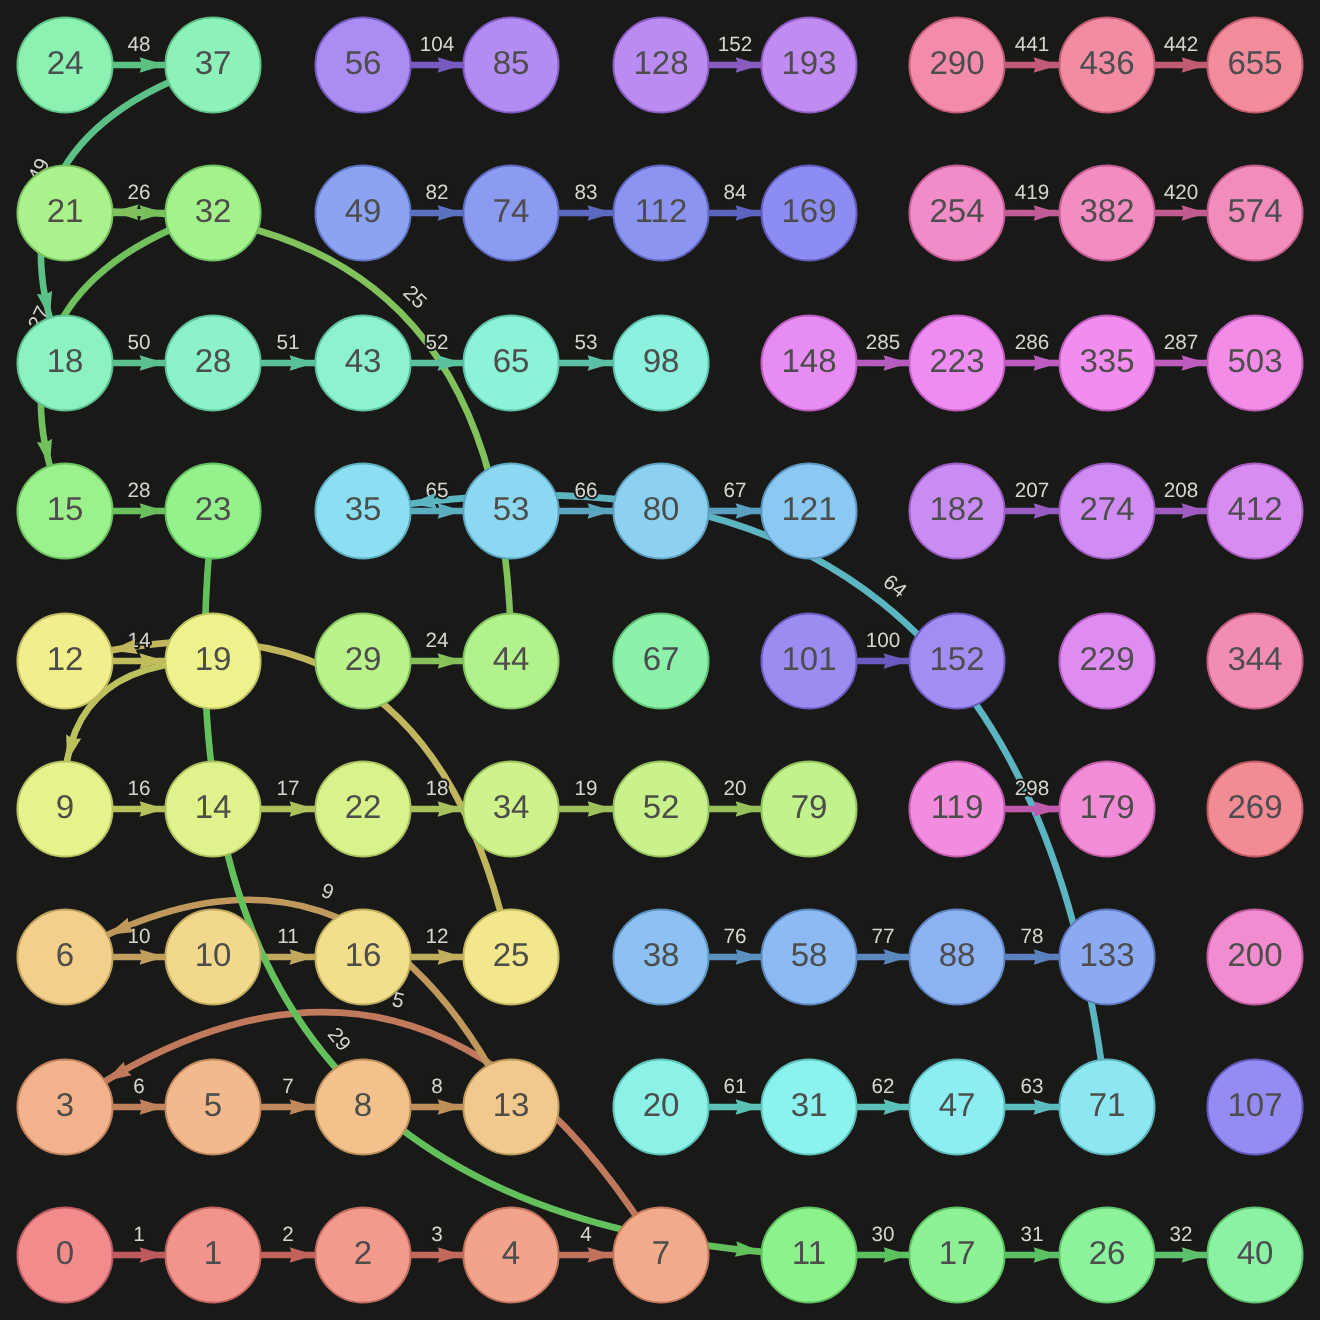
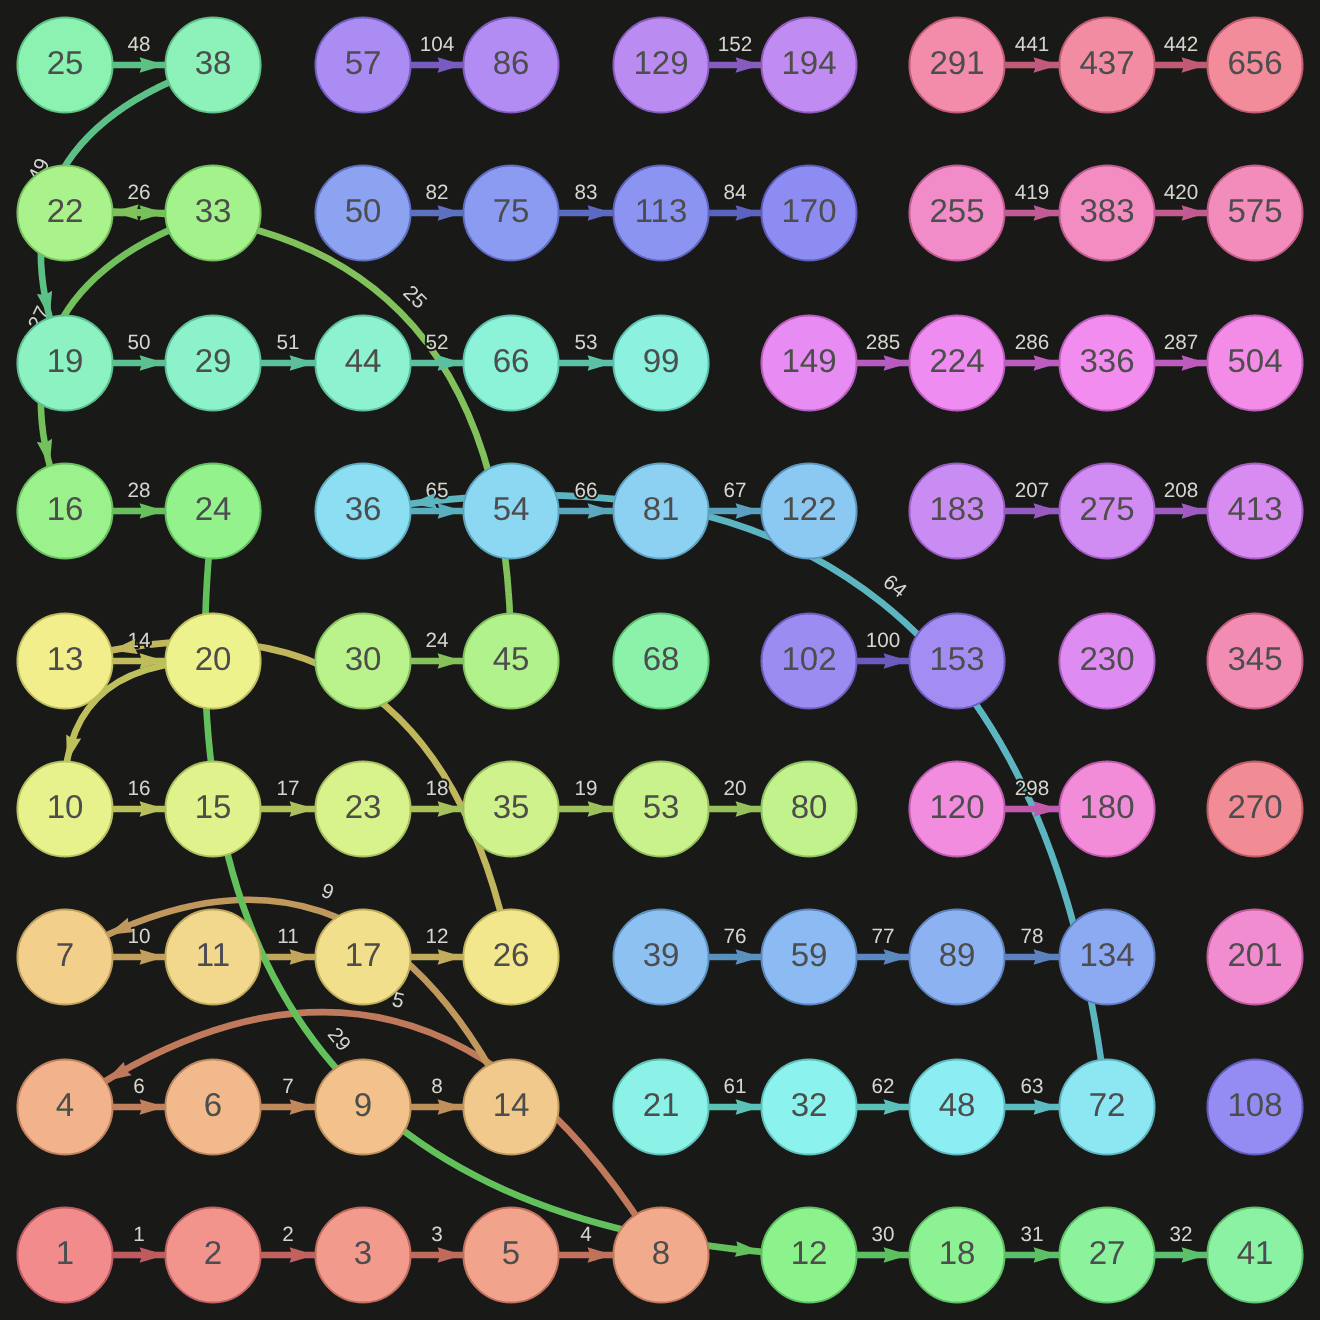
Rosary paper, beads counted from 1: Part II
- step 4b of docs/specs/0003-rosary-beads-counted-from-1.md
- the phase is log2 n mod 1, the cone of m is the beads whose binary
  expansion starts with that of m; Lemmas 4 and 5 lose their shifts
- Figures 8, 9 and 10 in the new numbering

diff --git a/research/jane-s-rosary/check_reluctant.py b/research/jane-s-rosary/check_reluctant.py
@@ -9,7 +9,8 @@ usage: python check_reluctant.py [--moves T]     (default 300000; about 5 s)
 Every line printed must end with "ok".
 
 Checked:
-- the first beads of the recitation, as quoted in the paper;
+- the first beads of the recitation and the examples of Part II, as quoted
+  in the paper;
 - Theorem 2 on the first T moves: Jane is never stuck, never tells a bead
   twice, and never leaves a gap in an up-chain (when a white bead w is
   told, w lambda has been told);
@@ -59,6 +60,16 @@ def main() -> int:
         )
     )
     results.append(report(f"Theorem 2: defined and injective on {moves} moves", True))
+    cone_of_4 = [n for n in range(1, 20) if 4 in down_chain(n)]
+    results.append(
+        report(
+            "examples: rho(5) = 4, rho(12) = 26, the cone of bead 4, the phase of 8",
+            beads[5] == 4
+            and beads[12] == 26
+            and cone_of_4 == [4, 8, 9, 16, 17, 18, 19]
+            and math.log2(8) % 1 == 0,
+        )
+    )
 
     told: set[int] = set()
     no_gap = True

diff --git a/content/posts/2022-12-02-jane-s-infinite-rosary/index.md b/content/posts/2022-12-02-jane-s-infinite-rosary/index.md
@@ -664,27 +664,28 @@ From Part I this part uses the names and Lemma 1, nothing more.
 
 The reluctant recitation was suggested by
 [Neal Gersh Tolunsky](https://oeis.org/wiki/User:Neal_Gersh_Tolunsky). Jane
-starts at bead $0$ and always prefers to move *down*; only when the bead below
-has already been told (or when she is at bead $0$) does she reluctantly move
+starts at bead $1$ and always prefers to move *down*; only when the bead below
+has already been told (or when she is at bead $1$) does she reluctantly move
 *up*.
 
 We write $\rho(i)$ for the bead reached after $i$ moves and
 $V_i = \{\rho(0), \ldots, \rho(i)\}$ for the set of beads told so far. For
-instance $\rho(0), \rho(1), \ldots = 0, 1, 2, 4, 7, 3, 5, 8, 13, 6, 10, 16, 25,
-12, \ldots$, so $\rho(5) = 3$ and $\rho(13) = 12$.
+instance $\rho(0), \rho(1), \ldots = 1, 2, 3, 5, 8, 4, 6, 9, 14, 7, 11, 17, 26,
+13, \ldots$, so $\rho(5) = 4$ and $\rho(12) = 26$. Time is counted from $0$:
+$\rho(i)$ comes after $i$ moves.
 
-[![Figure 8](images/figure-08.png)](https://blog.atlant.is/figures/jane-s-rosary/deconstructed.html?n=0&width=9&height=9&ordering=reluctant&label=position&color=reluctant_inv&arrows=labelled&interactive=yes)
+[![Figure 8](images/figure-08.png)](https://blog.atlant.is/figures/jane-s-rosary/deconstructed.html?n=0&width=9&height=9&ordering=reluctant&label=position&color=reluctant_inv&arrows=labelled&interactive=yes&first=1)
 
-> Figure 8: Jane's reluctant recitation on the deconstructed rosary. Each arrow carries the number of the move, and the beads are colored in the order in which they are told, from red to violet. An up move is a step to the right; a down move jumps to another row ([live version](https://blog.atlant.is/figures/jane-s-rosary/deconstructed.html?n=0&width=9&height=9&ordering=reluctant&label=position&color=reluctant_inv&arrows=labelled&interactive=yes)).
+> Figure 8: Jane's reluctant recitation on the deconstructed rosary. Each arrow carries the number of the move, and the beads are colored in the order in which they are told, from red to violet. An up move is a step to the right; a down move jumps to another row ([live version](https://blog.atlant.is/figures/jane-s-rosary/deconstructed.html?n=0&width=9&height=9&ordering=reluctant&label=position&color=reluctant_inv&arrows=labelled&interactive=yes&first=1)).
 
 ```python
 def rho(i: int) -> int:
     if i < 0: raise ValueError("argument must be nonnegative")
-    visited = {0}
-    bead = 0
+    visited = {1}
+    bead = 1
     for _ in range(i):
-        label = 1 + bead//2
-        if bead > 0 and bead - label not in visited:
+        label = (bead + 1)//2
+        if bead > 1 and bead - label not in visited:
             bead -= label         # moving down
         else:
             bead += label         # moving up
@@ -697,13 +698,13 @@ below and the bead above have already been told. Theorem 2 says that this
 never happens.
 
 **Lemma 3 (down-closure).** As long as the recitation is defined: if
-$n \in V_i$, $n > 0$ and $n \neq \rho(i)$, then $nD \in V_i$.
+$n \in V_i$, $n > 1$ and $n \neq \rho(i)$, then $nD \in V_i$.
 
 *Proof.* Say $n = \rho(j)$ with $j < i$. At that moment either $nD$ had been
 told already, or Jane moved to it: $\rho(j+1) = nD$. $\quad\Box$
 
-So *Jane never leaves a bead before the bead below it has been told.* In heap
-coordinates: the set of told beads is always a subtree containing the root,
+So *Jane never leaves a bead before the bead below it has been told.* In the
+binary tree: the set of told beads is always a subtree containing the root,
 except possibly for the path Jane is currently descending.
 
 ### 7. Theorem 2: Jane's reluctant recitation never halts
@@ -712,9 +713,9 @@ except possibly for the path Jane is currently descending.
 is injective, and it never creates a gap in an up-chain: for every $i$ and
 every white bead $w \in V_i$, we have $w\lambda \in V_i$.
 
-[![Figure 9](images/figure-09.png)](https://blog.atlant.is/figures/jane-s-rosary/deconstructed.html?n=31&width=9&height=9&ordering=reluctant&label=position&color=reluctant_inv&arrows=labelled&interactive=yes)
+[![Figure 9](images/figure-09.png)](https://blog.atlant.is/figures/jane-s-rosary/deconstructed.html?n=31&width=9&height=9&ordering=reluctant&label=position&color=reluctant_inv&arrows=labelled&interactive=yes&first=1)
 
-> Figure 9: the same after $31$ moves. The beads told so far, in color, fill every row from the left without leaving a hole: this is the no-gap property of Theorem 2 ([live version](https://blog.atlant.is/figures/jane-s-rosary/deconstructed.html?n=31&width=9&height=9&ordering=reluctant&label=position&color=reluctant_inv&arrows=labelled&interactive=yes)).
+> Figure 9: the same after $31$ moves. The beads told so far, in color, fill every row from the left without leaving a hole: this is the no-gap property of Theorem 2 ([live version](https://blog.atlant.is/figures/jane-s-rosary/deconstructed.html?n=31&width=9&height=9&ordering=reluctant&label=position&color=reluctant_inv&arrows=labelled&interactive=yes&first=1)).
 
 *The idea.* Jane is stuck if the bead below her and the bead above her have
 both been told. Suppose she stands on $n$, wants to go up, and finds $nU$
@@ -729,7 +730,7 @@ and Lemma 3 says that she has then told $w\lambda$ too.
 defined and distinct; (b) the no-gap property holds at all times $j \leq i$.
 Both are clear for $i = 0$.
 
-*Jane can move at time $i$.* Let $n = \rho(i)$. If $n > 0$ and
+*Jane can move at time $i$.* Let $n = \rho(i)$. If $n > 1$ and
 $nD \notin V_i$, she moves down to a new bead. Otherwise she wants to move up
 to $nU$, and we must show $nU \notin V_i$. If $nU = \rho(j)$ for some
 $j \le i$, then $j < i$ and, $nU$ being white, (b) at time $j$ gives
@@ -756,11 +757,11 @@ Both cases contradict $g \notin V_{i+1}$. $\quad\Box$
 
 ### 8. Theorem 3: Jane's reluctant recitation tells all beads
 
-**Theorem 3.** $\rho$ is a permutation of $\mathbb{N}$: the reluctant
+**Theorem 3.** $\rho$ is a permutation of $\mathbb{N}^*$: the reluctant
 recitation tells every bead exactly once.
 
 (The January 2023 version of this note stated this as a conjecture, checked
-by computer for all beads below $7\,884\,654$.)
+by computer for the first $7\,884\,654$ beads.)
 
 That Jane tells no bead twice is Theorem 2. What remains is that she leaves
 no bead out.
@@ -770,47 +771,47 @@ no bead out.
 1. Then Jane stays out of the whole *cone* of $m$, that is, of everything
    above $m$ in the binary tree: had she told a bead up there, she would have
    come down to $m$ (Lemma 3).
-2. The cone of $m$ is easy to recognize in heap coordinates: its beads are
-   those for which $x = n + 1$, written in binary, starts with the digits of
-   $m + 1$. On a logarithmic scale this is a condition on the fractional part
-   of $\log_2 x$ alone, the *phase* of the bead: it must fall in a fixed arc
+2. The cone of $m$ is easy to recognize: its beads are those whose position
+   $n$, written in binary, starts with the digits of $m$. On a logarithmic
+   scale this is a condition on the fractional part
+   of $\log_2 n$ alone, the *phase* of the bead: it must fall in a fixed arc
    of the circle (Lemma 4).
-3. A down move erases the last binary digit of $x$ and leaves the leading
-   ones alone: the phase hardly moves. An up move multiplies $x$ by $3/2$, or
+3. A down move erases the last binary digit of $n$ and leaves the leading
+   ones alone: the phase hardly moves. An up move multiplies $n$ by $3/2$, or
    very nearly: the phase turns by $\alpha = \log_2(3/2)$ (Lemma 5).
 4. So Jane's phase goes round the circle in steps of $\alpha$, and $\alpha$ is
    irrational: the steps never close up, and they visit every arc (Figure
    11). Sooner or later the phase falls in the arc of $m$: Jane is in the
    cone, which she was supposed to avoid.
 
-The "hardly" and "very nearly" hide errors of size about $1/x$. They do no
+The "hardly" and "very nearly" hide errors of size about $1/n$. They do no
 harm once Jane is far up, and she does go far up, for want of fresh beads
 lower down.
 
-**Lemma 4 (binary prefixes).** $\downarrow\!(n)$ consists of the beads $m$ such
-that the binary expansion of $m+1$ is a prefix of that of $n+1$:
+**Lemma 4 (binary prefixes).** $\downarrow\!(n)$ consists of the beads $m$ whose
+binary expansion is a prefix of that of $n$:
 
-$$m \in\ \downarrow\!(n) \iff \exists k \geq 0,\ \ m + 1 = \Big\lfloor \frac{n+1}{2^k} \Big\rfloor \geq 1 .$$
+$$m \in\ \downarrow\!(n) \iff \exists k \geq 0,\ \ m = \Big\lfloor \frac{n}{2^k} \Big\rfloor \geq 1 .$$
 
-*Proof.* $nD + 1 = \lceil n/2 \rceil = \lfloor (n+1)/2 \rfloor$, and
-$\lfloor \lfloor x/2^j \rfloor / 2 \rfloor = \lfloor x/2^{j+1} \rfloor$. $\quad\Box$
+*Proof.* $nD = \lfloor n/2 \rfloor$, and
+$\lfloor \lfloor n/2^j \rfloor / 2 \rfloor = \lfloor n/2^{j+1} \rfloor$. $\quad\Box$
 
 Define the **cone** of a bead $m$ as the set of beads $n$ with
 $m \in\ \downarrow\!(n)$, and the **phase** of a bead $n$ as
 
-$$\theta(n) = \log_2(n+1) \bmod 1 \ \in \mathbb{R}/\mathbb{Z}.$$
+$$\theta(n) = \log_2 n \bmod 1 \ \in \mathbb{R}/\mathbb{Z}.$$
 
 The cone of $m$ is everything above $m$ in the binary tree: the cone of bead
-$3$ is $\{3,\ 7, 8,\ 15, 16, 17, 18,\ \ldots\}$. If Jane tells one of these
-beads, she tells bead $3$ as well: by Lemma 3 she cannot leave a bead for good
+$4$ is $\{4,\ 8, 9,\ 16, 17, 18, 19,\ \ldots\}$. If Jane tells one of these
+beads, she tells bead $4$ as well: by Lemma 3 she cannot leave a bead for good
 before the bead below it is told. The
 phase forgets how high a bead is in the tree and remembers only where it
-stands within its level: bead $7$, the first of its level, has phase $0$.
+stands within its level: bead $8$, the first of its level, has phase $0$.
 
 ![Figure 10](images/figure-10.svg)
 
 > Figure 10: the binary tree of the rosary, each bead placed above its phase;
-> the root, bead $0$, is at the bottom. The cone of bead $3$ is the shaded
+> the root, bead $1$, is at the bottom. The cone of bead $4$ is the shaded
 > strip. A down move follows a gray line to the parent, which is straight
 > below, or nearly so as soon as the beads are large. An up move (the arrows,
 > drawn from the beads of the cone) carries a bead to the right by about
@@ -819,22 +820,22 @@ stands within its level: bead $7$, the first of its level, has phase $0$.
 
 By Lemma 4, $n$ is in the cone of $m$ if and only if $n \geq m$ and
 $\theta(n)$ lies in the arc
-$A_m = \big[\log_2(m+1),\ \log_2(m+2)\big) \bmod 1$, whose length is
-$w_m = \log_2\big(1 + \frac{1}{m+1}\big) \ge \frac{1}{m+1}$. Let
+$A_m = \big[\log_2 m,\ \log_2(m+1)\big) \bmod 1$, whose length is
+$w_m = \log_2\big(1 + \frac{1}{m}\big) \ge \frac{1}{m}$. Let
 
 $$\alpha = \log_2\frac{3}{2} = \log_2 3 - 1 .$$
 
-**Lemma 5 (phases).** Let $n \geq 0$ and $x = n+1$.
+**Lemma 5 (phases).** Let $n \geq 1$.
 
-1. $\log_2(nU + 1) = \log_2 x + \alpha + \varepsilon$ with
-   $0 \leq \varepsilon < \dfrac{1}{2x}$.
-2. If $m = nD^k$ and $y = m + 1$, then
-   $\log_2 y = \log_2 x - k - \varepsilon'$ with
-   $0 \leq \varepsilon' < \dfrac{3}{2y}$.
+1. $\log_2(nU) = \log_2 n + \alpha + \varepsilon$ with
+   $0 \leq \varepsilon < \dfrac{1}{2n}$.
+2. If $m = nD^k$, then
+   $\log_2 m = \log_2 n - k - \varepsilon'$ with
+   $0 \leq \varepsilon' < \dfrac{3}{2m}$.
 
-*Proof.* (1) $nU + 1 = \lceil 3x/2 \rceil \in \{3x/2,\ (3x+1)/2\}$ and
-$\log_2(1 + \frac{1}{3x}) < \frac{1}{2x}$. (2) By Lemma 4,
-$y \leq x/2^k < y+1$ and $\log_2(1 + \frac{1}{y}) < \frac{3}{2y}$. $\quad\Box$
+*Proof.* (1) $nU = \lceil 3n/2 \rceil \in \{3n/2,\ (3n+1)/2\}$ and
+$\log_2(1 + \frac{1}{3n}) < \frac{1}{2n}$. (2) By Lemma 4,
+$m \leq n/2^k < m+1$ and $\log_2(1 + \frac{1}{m}) < \frac{3}{2m}$. $\quad\Box$
 
 [![Figure 11](images/figure-11.png)](https://blog.atlant.is/figures/jane-s-rosary/irrational-log2-3.html?n=40&interactive=yes)
 
@@ -843,7 +844,7 @@ $y \leq x/2^k < y+1$ and $\log_2(1 + \frac{1}{y}) < \frac{3}{2y}$. $\quad\Box$
 *Proof of Theorem 3.* Fix a bead $m$ and suppose that $m$ is never told.
 
 *Step 1: Jane never enters the cone of $m$.* By Lemma 3, whenever Jane leaves a
-bead $n > 0$, the bead $nD$ has been told. So every bead of
+bead $n > 1$, the bead $nD$ has been told. So every bead of
 $\downarrow\!(n)$ is eventually told, for every told bead $n$. Hence no bead of
 the cone of $m$ is ever told.
 
